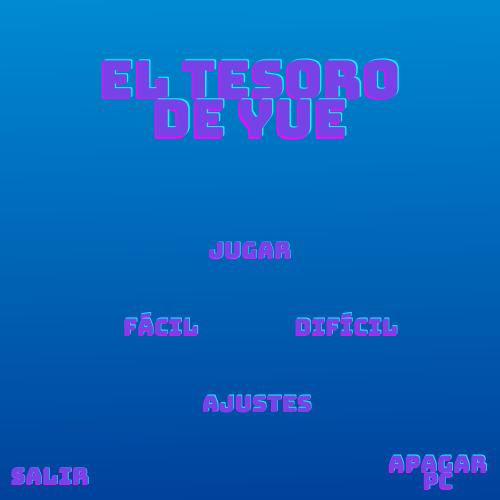
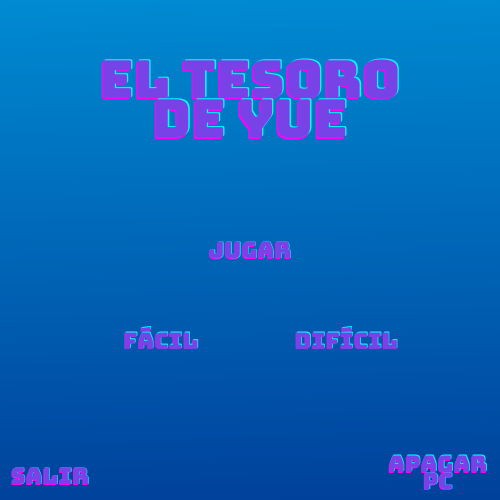
version 1

Changed region(s): [[0.57, 0.63, 0.81, 0.72], [0.24, 0.6, 0.42, 0.72], [0.39, 0.78, 0.63, 0.84]]

diff --git a/JuegoAyuda/core/src/main/java/com/cescristorey/pmdm/SegundaPantalla.java b/JuegoAyuda/core/src/main/java/com/cescristorey/pmdm/SegundaPantalla.java
@@ -18,11 +18,12 @@ public class SegundaPantalla implements Screen {
     OrthographicCamera guiCam;
     Rectangle nextBounds;
     Vector3 touchPoint;
-    Rectangle salir, apagar, jugar, ajustes;
+    Rectangle salir, apagar, jugar, ajustes, facil, dificil;
     TextureRegion helpRegion;
     Texture flecha;
     Table testTable;
     Stage stage;
+    float x, y; 
     
 
     public SegundaPantalla(MyGdxGame game){
@@ -41,39 +42,49 @@ public class SegundaPantalla implements Screen {
         salir = new Rectangle(25, 12, 130, 30);
         jugar = new Rectangle(325, 230, 155, 30);
         apagar = new Rectangle(500, 0, 64, 64);
+        facil = new Rectangle(250,120,64,64); 
+        dificil = new Rectangle(500,150,64,64);
+        ajustes = new Rectangle(325, 100, 155, 30);
         touchPoint = new Vector3();
-
-        // flecha = new Texture(Gdx.files.internal("adelante.png"));
-
+        
+        flecha = new Texture(Gdx.files.internal("flecha.png"));
+          x= facil.x - 120f; 
+          y = facil.y; 
     }
 
-    public void update() {
+    public void update(){
+        
         guiCam.update();
         game.batch.setProjectionMatrix(guiCam.combined);
         stage.act();
         stage.draw();
         
+        
         this.game.batch.begin();
-        this.game.font.draw(game.batch,"Ajustes", 333, 242);
+        this.game.font.draw(game.batch,"dificil", 500, 150);
+        this.game.batch.draw(flecha, x, y);
         this.game.batch.end();
-         if (Gdx.input.justTouched()) {
-            //System.out.println("x" + touchPoint.x + "y" + touchPoint.y);
+        
+        if (Gdx.input.justTouched()){
+            
             guiCam.unproject(touchPoint.set(Gdx.input.getX(), Gdx.input.getY(), 0));
 
             if (salir.contains(touchPoint.x, touchPoint.y)) {
                     
                     exit(0);
             }
-        }
+            if(facil.contains(touchPoint.x, touchPoint.y)){
+               x= facil.x - 120f; 
+               y = facil.y; 
+            }
          
-         
-        if (Gdx.input.justTouched()) {
-            //System.out.println("x" + touchPoint.x + "y" + touchPoint.y);
-            guiCam.unproject(touchPoint.set(Gdx.input.getX(), Gdx.input.getY(), 0));
-
             if (jugar.contains(touchPoint.x, touchPoint.y)) {
-                   //System.out.println("XXX" + touchPoint.x + "YYY" + touchPoint.y);
-                   game.setScreen(new MainScreen(this.game));
+                 
+                game.setScreen(new MainScreen(this.game));
+            }
+            if(dificil.contains(touchPoint.x, touchPoint.y)){
+                x =  dificil.x -110f; 
+                y = dificil.y -25f; 
             }
         }
 

diff --git a/JuegoAyuda/core/src/main/java/com/cescristorey/pmdm/Ajustes.java b/JuegoAyuda/core/src/main/java/com/cescristorey/pmdm/Ajustes.java
@@ -4,10 +4,62 @@
  */
 package com.cescristorey.pmdm;
 
+import com.badlogic.gdx.Screen;
+import com.badlogic.gdx.graphics.OrthographicCamera;
+import com.badlogic.gdx.graphics.Texture;
+import com.badlogic.gdx.graphics.g2d.TextureRegion;
+import com.badlogic.gdx.math.Rectangle;
+import com.badlogic.gdx.math.Vector3;
+import com.badlogic.gdx.scenes.scene2d.Stage;
+import com.badlogic.gdx.scenes.scene2d.ui.Table;
+
 /**
  *
  * @author chawy
  */
-public class Ajustes {
+public class Ajustes implements Screen{
+
+    MyGdxGame game;
+    OrthographicCamera guiCam;
+    Rectangle nextBounds;
+    Vector3 touchPoint;
+    Rectangle salir, apagar, jugar, ajustes;
+    
+    Texture flecha;
+    Table testTable;
+    Stage stage;
+    
+    
+    @Override
+    public void show() {
+    }
+
+    @Override
+    public void render(float f) {
+    }
+
+    @Override
+    public void resize(int i, int i1) {
+    }
+
+    @Override
+    public void pause() {
+        throw new UnsupportedOperationException("Not supported yet."); // Generated from nbfs://nbhost/SystemFileSystem/Templates/Classes/Code/GeneratedMethodBody
+    }
+
+    @Override
+    public void resume() {
+        throw new UnsupportedOperationException("Not supported yet."); // Generated from nbfs://nbhost/SystemFileSystem/Templates/Classes/Code/GeneratedMethodBody
+    }
+
+    @Override
+    public void hide() {
+        throw new UnsupportedOperationException("Not supported yet."); // Generated from nbfs://nbhost/SystemFileSystem/Templates/Classes/Code/GeneratedMethodBody
+    }
+
+    @Override
+    public void dispose() {
+        throw new UnsupportedOperationException("Not supported yet."); // Generated from nbfs://nbhost/SystemFileSystem/Templates/Classes/Code/GeneratedMethodBody
+    }
     
 }

diff --git a/JuegoAyuda/core/src/main/java/com/cescristorey/pmdm/MainScreen.java b/JuegoAyuda/core/src/main/java/com/cescristorey/pmdm/MainScreen.java
@@ -4,19 +4,14 @@ import com.badlogic.gdx.*;
 import com.badlogic.gdx.audio.Music;
 import com.badlogic.gdx.graphics.g2d.Animation;
 import com.badlogic.gdx.graphics.*;
-import com.badlogic.gdx.graphics.g2d.SpriteBatch;
+
 import com.badlogic.gdx.maps.tiled.*;
 import com.badlogic.gdx.maps.tiled.renderers.*;
 import com.badlogic.gdx.math.Rectangle;
 import com.badlogic.gdx.scenes.scene2d.*;
-import com.badlogic.gdx.scenes.scene2d.ui.List;
-import com.badlogic.gdx.utils.ScreenUtils;
-import com.badlogic.gdx.utils.TimeUtils;
-import java.io.IOException;
-import static java.lang.System.exit;
+
 import java.util.ArrayList;
-import java.util.logging.Level;
-import java.util.logging.Logger;
+
 
 public class MainScreen implements Screen {
     
@@ -142,7 +137,8 @@ public class MainScreen implements Screen {
         
         else
             camera.position.x = yue.getX();
-            camera.update();
+        
+        camera.update();
       
         
 
@@ -222,6 +218,7 @@ public class MainScreen implements Screen {
     }
     
     public Shuriken disparar(){
+        
         Shuriken shu;
         shu = new Shuriken();
         shu.setPosition(10, 6);

diff --git a/JuegoAyuda/lwjgl3/src/main/java/com/cescristorey/pmdm/lwjgl3/Lwjgl3Launcher.java b/JuegoAyuda/lwjgl3/src/main/java/com/cescristorey/pmdm/lwjgl3/Lwjgl3Launcher.java
@@ -5,7 +5,6 @@ import com.badlogic.gdx.backends.lwjgl3.Lwjgl3ApplicationConfiguration;
 import com.cescristorey.pmdm.MyGdxGame;
 
 
-/** Launches the desktop (LWJGL3) application. */
 public class Lwjgl3Launcher {
             public static void main(String[] args) {
 		createApplication();
